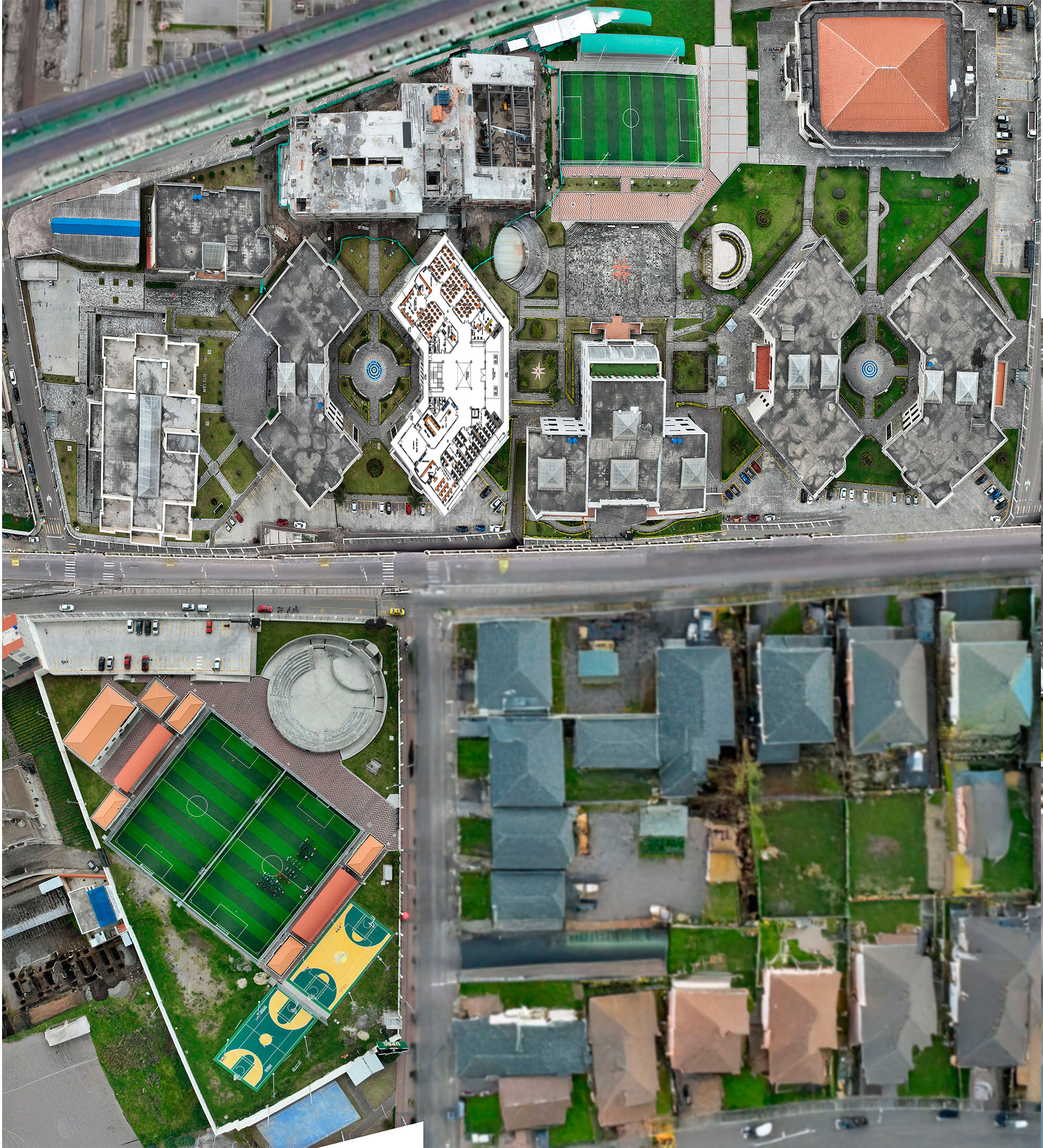
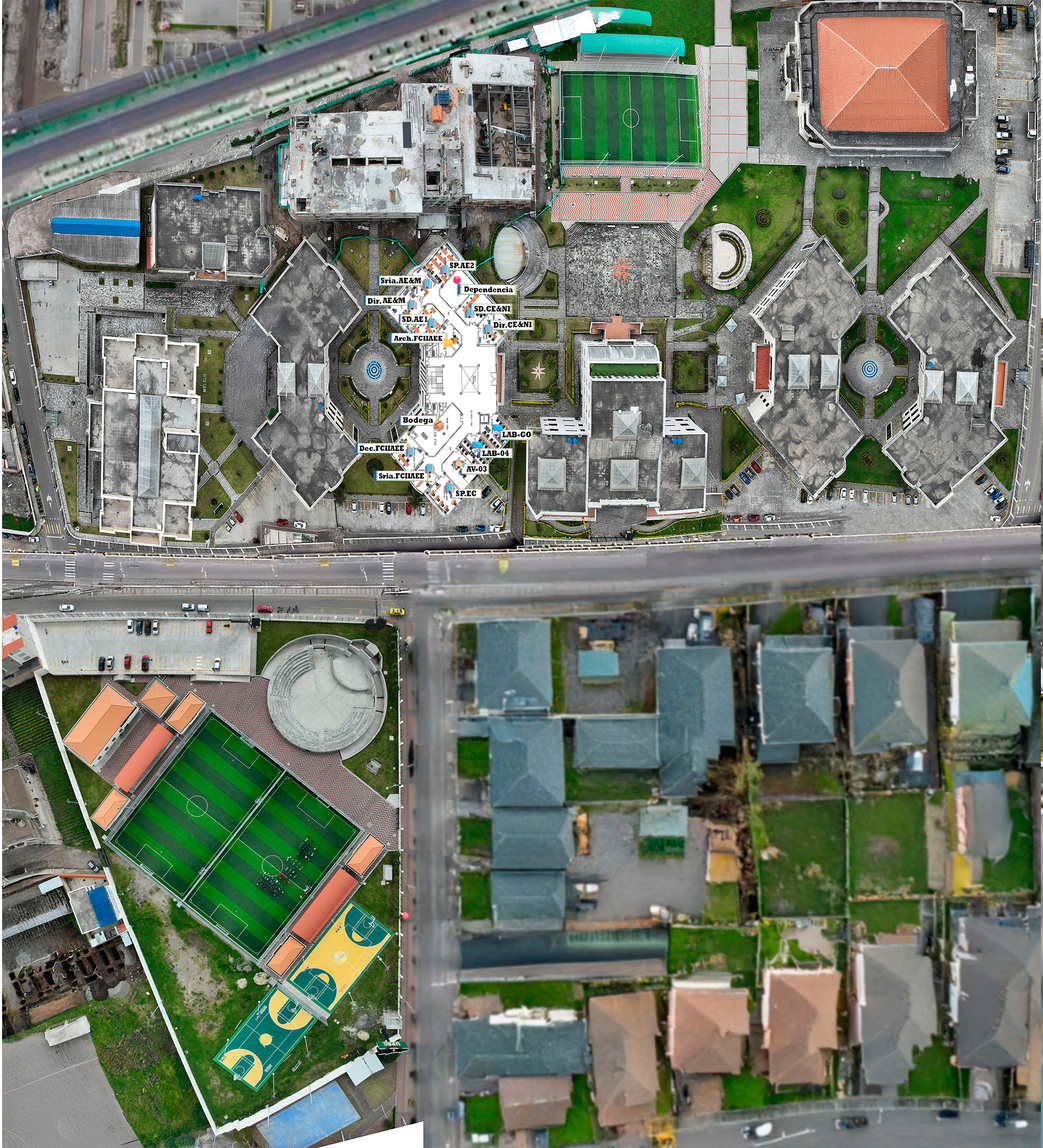
Edificio 1 Informacion e Imagen

Changed region(s): [[0.341, 0.1855, 0.527, 0.4636]]

diff --git a/universidadmapa/src/data/coordinatesData.ts b/universidadmapa/src/data/coordinatesData.ts
@@ -354,23 +354,23 @@ const edificiosOriginales = [
         nombre: 'Planta Baja',
         imagen: '/assets/images/edificio1-plantabaja.jpg',
         ladoIzquierdo: [
-          { nombre: 'Laboratorio Asuntos públicos y de gobierno', tipo: 'LABORATORIO' },
-          { nombre: 'Cafetería', tipo: 'SERVICIO' },
-          { nombre: 'Laboratorio de informática 04', tipo: 'LABORATORIO' },
-          { nombre: 'Aula Virtual 003', tipo: 'AULA' },
-          { nombre: 'Sala de Profesores de comercio', tipo: 'ADMINISTRATIVO' },
-          { nombre: 'Secretaria FCIIAEE', tipo: 'ADMINISTRATIVO' },
-          { nombre: 'Decanato FCIIAEE', tipo: 'ADMINISTRATIVO' }
+          { nombre: 'Laboratorio Asuntos públicos y de gobierno (LAB-GO)', tipo: 'LABORATORIO' },
+          { nombre: 'Sala de Reuniones', tipo: 'SERVICIO' },
+          { nombre: 'Laboratorio de informática 04 (LAB-04)', tipo: 'LABORATORIO' },
+          { nombre: 'Aula Virtual 003 (AV-03)', tipo: 'AULA' },
+          { nombre: 'Sala de Profesores de comercio (SD-EC)', tipo: 'ADMINISTRATIVO' },
+          { nombre: 'Secretaria FCIIAEE (Sria. FCIIAEE)', tipo: 'ADMINISTRATIVO' },
+          { nombre: 'Decanato F.C.I.I.A.E.E (Dec. FCIIAEE)', tipo: 'ADMINISTRATIVO' }
         ],
         ladoDerecho: [
-          { nombre: 'Dirección de Comercio Exterior y Negosiacion Internacional', tipo: 'ADMINISTRATIVO' },
-          { nombre: 'Sala de Profesores Comercio Exterior', tipo: 'ADMINISTRATIVO' },
-          { nombre: 'Dependencia', tipo: 'OTRO' },
-          { nombre: 'Sala de Profesores Administración de empresas y Marketing', tipo: 'ADMINISTRATIVO' },
-          { nombre: 'Secretaria de Administración y Marketing', tipo: 'ADMINISTRATIVO' },
-          { nombre: 'Dirección', tipo: 'ADMINISTRATIVO' },
-          { nombre: 'Sala de Profesores Escuela de Administración de Empresas y Marketing', tipo: 'ADMINISTRATIVO' },
-          { nombre: 'Archivo F.C.I.I.A.E.E', tipo: 'ARCHIVO' }
+          { nombre: 'Dirección de Comercio Exterior y Negosiacion Internacional (Dir.CE&NI)', tipo: 'ADMINISTRATIVO' },
+          { nombre: 'Sala de Profesores Comercio Exterior (SD.CE&NI)', tipo: 'ADMINISTRATIVO' },
+          { nombre: 'Dependencia (Dep.)', tipo: 'OTRO' },
+          { nombre: 'Sala de Profesores Administración de empresas y Marketing (SD.AE1 Y SD.AE2)', tipo: 'ADMINISTRATIVO' },
+          { nombre: 'Secretaria de Administración y Marketing (Sria.AE&M)', tipo: 'ADMINISTRATIVO' },
+          { nombre: 'Dirección (Dir.)', tipo: 'ADMINISTRATIVO' },
+          { nombre: 'Sala de Profesores Escuela de Administración de Empresas y Marketing (Dir.AE&M)', tipo: 'ADMINISTRATIVO' },
+          { nombre: 'Archivo F.C.I.I.A.E.E (Arch.FCIIAEE)', tipo: 'ARCHIVO' }
         ]
       },
       {

diff --git a/universidadmapa/src/components/mapComponents.tsx b/universidadmapa/src/components/mapComponents.tsx
@@ -435,6 +435,8 @@ const UbicacionItem: React.FC<{
         return '🔧';
       case 'SEGURIDAD':
         return '🔒';
+      case 'BAÑOS':
+        return '🧻';
       case 'ALMACÉN':
         return '📦';
       case 'ARCHIVO':
